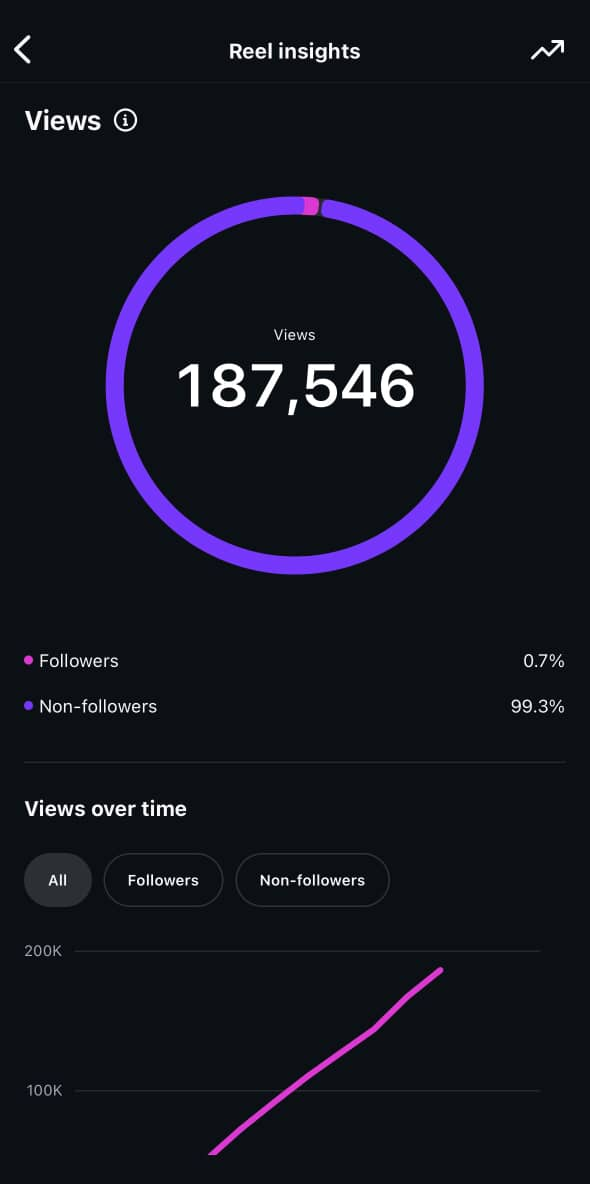
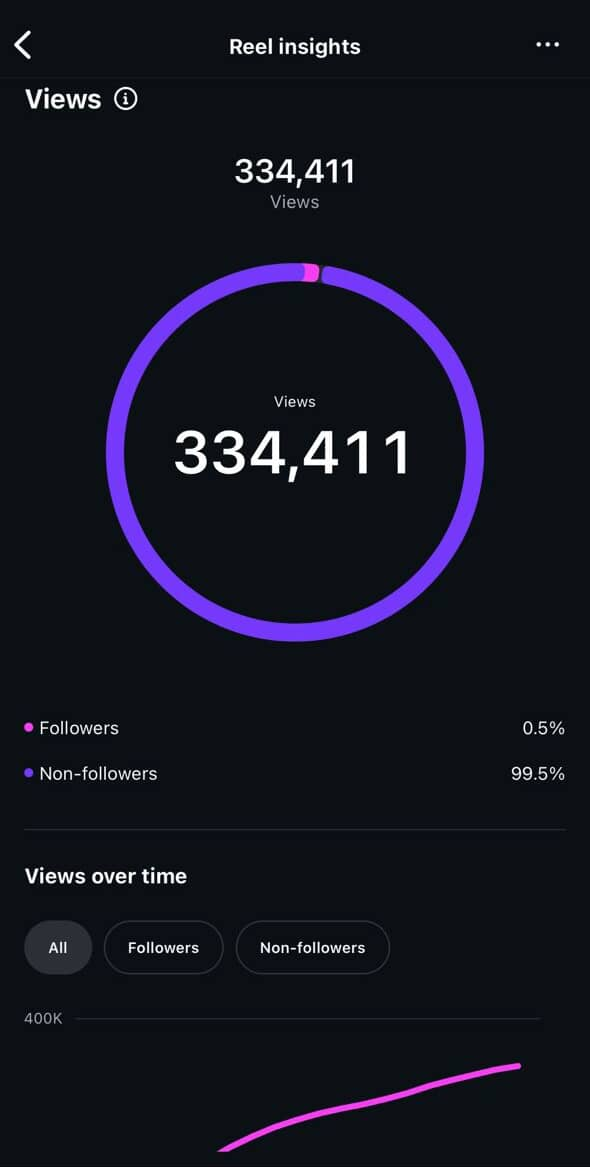
Built Nifemi's Portfolio

diff --git a/src/components/Reviews.tsx b/src/components/Reviews.tsx
@@ -1,6 +1,7 @@
 import { Star } from "lucide-react"
 import NovlNest from "../assets/NovlNest.jpg"
 import Dhunnie from "../assets/Dhunnie.jpg"
+import Synden from "../assets/synden.jpg"
 
 const reviews = () => {
     const reviews = [
@@ -19,6 +20,14 @@ const reviews = () => {
             image: Dhunnie,
             text: "Nifemi completely transformed how our brand shows up online. Her consistency and eye for detail have helped us attract more customers effortlessly.",
             rating: 5,
+        },
+        {
+            id: 3,
+            name: "Synden Collections",
+            role: "Fashion Brand",
+            image: Synden,
+            text: "Working with Nife was such a breeze! Professional, creative, and always delivered beyond expectations. Highly recommend!",
+            rating: 5,
         }
     ]
 
@@ -31,7 +40,7 @@ const reviews = () => {
                     <p className="text-lg text-muted-foreground">What brands say about working together</p>
                 </div>
 
-                <div className="grid md:grid-cols-2 gap-8">
+                <div className="grid md:grid-cols-2 lg:grid-cols-3 gap-8">
                     {reviews.map((review) => (
                         <div
                             key={review.id}

diff --git a/src/components/Footer.tsx b/src/components/Footer.tsx
@@ -33,13 +33,13 @@ const Footer = () => {
                   </a>
                 </li>
                 <li>
-                  <a href="#projects" className="hover:text-[#7AB2B2] transition-colors">
-                    Projects
+                  <a href="#mockups" className="hover:text-[#7AB2B2] transition-colors">
+                    Mockups
                   </a>
                 </li>
                 <li>
-                  <a href="#reviews" className="hover:text-[#7AB2B2] transition-colors">
-                    Reviews
+                  <a href="#projects" className="hover:text-[#7AB2B2] transition-colors">
+                    Projects
                   </a>
                 </li>
               </ul>

diff --git a/src/components/Projects.tsx b/src/components/Projects.tsx
@@ -10,9 +10,9 @@ const Projects = () => {
             title: "Viral Reel Campaign",
             image: reel3,
             stats: [
-                { label: "Views", value: "187K", icon: Eye },
-                { label: "Followers", value: "0.7%", icon: Users },
-                { label: "Non-followers", value: "99.3%", icon: Heart },
+                { label: "Views", value: "334K", icon: Eye },
+                { label: "Followers", value: "0.5%", icon: Users },
+                { label: "Non-followers", value: "99.5%", icon: Heart },
             ],
         },
         {
